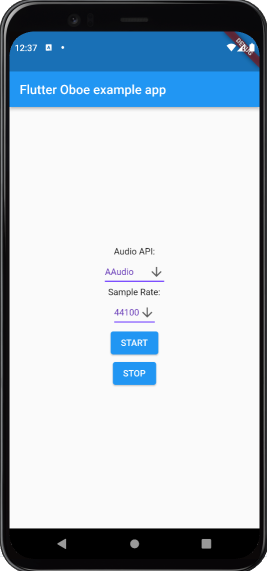
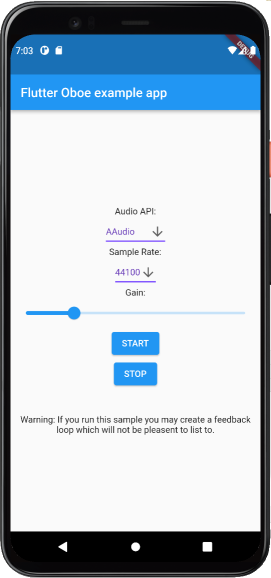
added support for changing the amplification

Changed region(s): [[0.0, 0.0, 1.0, 1.0], [0.0899, 0.3573, 0.8989, 0.6848]]

diff --git a/lib/main.dart b/lib/main.dart
@@ -19,6 +19,7 @@ class MyAppState extends State<MyApp>{
   int api = 0; // OBOE_API_AAUDIO = 0, OBOE_API_OPENSL_ES = 1
   int sampleRate = 44100;
   int framesPerBurst = 0; // default
+  double gain = 1.0; // amplification
 
   final stream = FlutterOboe();
   late bool engineCreated;
@@ -30,6 +31,16 @@ class MyAppState extends State<MyApp>{
 
     // ask for microphone permission
     getMicrophonePermission();
+
+    // create Oboe audio stream
+    engineCreated = stream.engineCreate();
+    engineCreated ? print("Oboe Audio stream created") :
+      print("Oboe Audio stream failed");
+
+    // check whether AAudio API is recommended for the device
+    aaudioRecommended = stream.engineIsAAudioRecommended();
+    aaudioRecommended ? print("AAudio recommended") :
+      print("AAudio not recommended");
   }
 
   @override
@@ -89,13 +100,26 @@ class MyAppState extends State<MyApp>{
                       );
                     }).toList(),
                 ),
-                ElevatedButton(
-                  child: Text('START'),
-                  onPressed: start,
-                ),
-                ElevatedButton(
-                  child: Text('STOP'),
-                  onPressed: stop,
+              Text('Gain:'),
+              Slider(
+                value: gain,
+                max: 10,
+                divisions: 100,
+                label: gain.toStringAsFixed(1),
+                onChanged: (double value) {
+                  setState(() {
+                    gain = value;
+                    stream.engineSetGain(gain);
+                  });
+                },
+              ),
+              ElevatedButton(
+                child: Text('START'),
+                onPressed: start,
+              ),
+              ElevatedButton(
+                child: Text('STOP'),
+                onPressed: stop,
               ),
               SizedBox(height: 40),
               Text('Warning: If you run this sample you may create a feedback '
@@ -108,10 +132,6 @@ class MyAppState extends State<MyApp>{
   }
 
   void start(){
-    // create Oboe audio stream
-    engineCreated = stream.engineCreate();
-    engineCreated ? print("Oboe Audio stream successfully created") :
-      print("Oboe Audio stream failed");
     // set recording device id
     stream.engineSetRecordingDeviceId(recordingDeviceId);
     // set playback device id
@@ -120,10 +140,6 @@ class MyAppState extends State<MyApp>{
     stream.engineSetAPI(api);
     // set sample rate
     stream.engineNative1setDefaultStreamValues(sampleRate, framesPerBurst);
-    // check whether AAudio API is recommended for the device
-    aaudioRecommended = stream.engineIsAAudioRecommended();
-    aaudioRecommended ? print("AAudio recommended") :
-      print("AAudio not recommended");
     // start Oboe audio passthrough
     stream.engineSetEffectOn(true);
   }

diff --git a/lib/flutter_oboe.dart b/lib/flutter_oboe.dart
@@ -28,6 +28,9 @@ typedef LiveEffectEngine_native_1setDefaultStreamValues = Void Function(Int32,
 typedef LiveEffectEngineNative1setDefaultStreamValues = void Function(int,
     int);
 
+typedef LiveEffectEngine_setGain = Void Function(Double);
+typedef LiveEffectEngineSetGain = void Function(double);
+
 class FlutterOboe {
   static const MethodChannel _channel = const MethodChannel(('flutter_oboe'));
 
@@ -43,6 +46,7 @@ class FlutterOboe {
   late LiveEffectEngineSetAPI engineSetAPI;
   late LiveEffectEngineIsAAudioRecommended engineIsAAudioRecommended;
   late LiveEffectEngineNative1setDefaultStreamValues engineNative1setDefaultStreamValues;
+  late LiveEffectEngineSetGain engineSetGain;
 
   FlutterOboe(){
 
@@ -79,6 +83,9 @@ class FlutterOboe {
     engineNative1setDefaultStreamValues = oboeLib
         .lookup<NativeFunction<LiveEffectEngine_native_1setDefaultStreamValues>>('LiveEffectEngine_native_1setDefaultStreamValues')
         .asFunction();
+    engineSetGain = oboeLib
+      .lookup<NativeFunction<LiveEffectEngine_setGain>>('LiveEffectEngine_setGain')
+      .asFunction();
   }
 }
 

diff --git a/android/app/src/main/cpp/FullDuplexStream.h b/android/app/src/main/cpp/FullDuplexStream.h
@@ -49,8 +49,7 @@ public:
             int   numInputFrames,
             std::shared_ptr<oboe::AudioStream> outputStream,
             void *outputData,
-            int   numOutputFrames
-            ) = 0;
+            int   numOutputFrames) = 0;
 
     /**
      * Called by Oboe when the stream is ready to process audio.
@@ -71,6 +70,16 @@ public:
      * @param mNumInputBurstsCushion
      */
     void setNumInputBurstsCushion(int32_t numInputBurstsCushion);
+
+    /**
+    * Set modeling amplification
+    */
+    void setGain(float gain);
+
+    /**
+    * Get modeling amplification
+    */
+    float getGain();
 
 private:
 
@@ -96,6 +105,7 @@ private:
 
     int32_t              mBufferSize = 0;
     std::unique_ptr<float[]> mInputBuffer;
+    float                mgain = 1.0;
 };
 
 

diff --git a/android/app/src/main/cpp/FullDuplexPass.h b/android/app/src/main/cpp/FullDuplexPass.h
@@ -42,8 +42,9 @@ public:
 
         // It is possible that there may be fewer input than output samples.
         int32_t samplesToProcess = std::min(numInputSamples, numOutputSamples);
+        float gain = getGain();
         for (int32_t i = 0; i < samplesToProcess; i++) {
-            *outputFloats++ = *inputFloats++ * 0.95; // do some arbitrary processing
+            *outputFloats++ = *inputFloats++ * gain; // do some arbitrary processing
         }
 
         // If there are fewer input samples then clear the rest of the buffer.

diff --git a/android/app/src/main/cpp/LiveEffectEngine.cpp b/android/app/src/main/cpp/LiveEffectEngine.cpp
@@ -19,6 +19,7 @@
 
 #include "LiveEffectEngine.h"
 
+
 LiveEffectEngine::LiveEffectEngine() {
     assert(mOutputChannelCount == mInputChannelCount);
 }
@@ -235,4 +236,8 @@ void LiveEffectEngine::onErrorAfterClose(oboe::AudioStream *oboeStream,
     LOGE("%s stream Error after close: %s",
          oboe::convertToText(oboeStream->getDirection()),
          oboe::convertToText(error));
+}
+
+void LiveEffectEngine::setGain(float gain) {
+    mFullDuplexPass.setGain(gain);
 }

diff --git a/android/app/src/main/cpp/FullDuplexStream.cpp b/android/app/src/main/cpp/FullDuplexStream.cpp
@@ -126,3 +126,11 @@ int32_t FullDuplexStream::getNumInputBurstsCushion() const {
 void FullDuplexStream::setNumInputBurstsCushion(int32_t numBursts) {
     FullDuplexStream::mNumInputBurstsCushion = numBursts;
 }
+
+void FullDuplexStream::setGain(float gain){
+    mgain = gain;
+}
+
+float FullDuplexStream::getGain(){
+    return mgain;
+}

diff --git a/android/app/src/main/cpp/c_bridge.cpp b/android/app/src/main/cpp/c_bridge.cpp
@@ -116,3 +116,7 @@ EXTERNC void LiveEffectEngine_native_1setDefaultStreamValues(int32_t sampleRate,
     oboe::DefaultStreamValues::SampleRate = sampleRate;
     oboe::DefaultStreamValues::FramesPerBurst = framesPerBurst;
 }
+
+EXTERNC void LiveEffectEngine_setGain(double gain) {
+    engine->setGain((float) gain);
+}

diff --git a/android/app/src/main/cpp/LiveEffectEngine.h b/android/app/src/main/cpp/LiveEffectEngine.h
@@ -51,6 +51,8 @@ public:
     bool setAudioApi(oboe::AudioApi);
     bool isAAudioRecommended(void);
 
+    void setGain(float);
+
 private:
     FullDuplexPass    mFullDuplexPass;
     bool              mIsEffectOn = false;

diff --git a/README.md b/README.md
@@ -8,7 +8,7 @@ Example Flutter application implementing a wrapper for the C++ Google Oboe (Live
 Target is to reach a minimum microphone to speaker audio latency passthrough with Flutter for Android.
 The microphone recording with simultaneous speaker playback can be started by pressing the start button.
 
-In the GUI settings the Sampling Rate and the Audio API (AAudio or OpenSL ES) can be selected dependent on the use case. 
+In the GUI settings the used Audio API (AAudio or OpenSL ES), the sampling rate and the amplification can be selected. 
 The programming interface also allows to select the recording and playback device_id and the framesPerBurst.
 
 To build the application you have to copy the Oboe library into the root folder.
